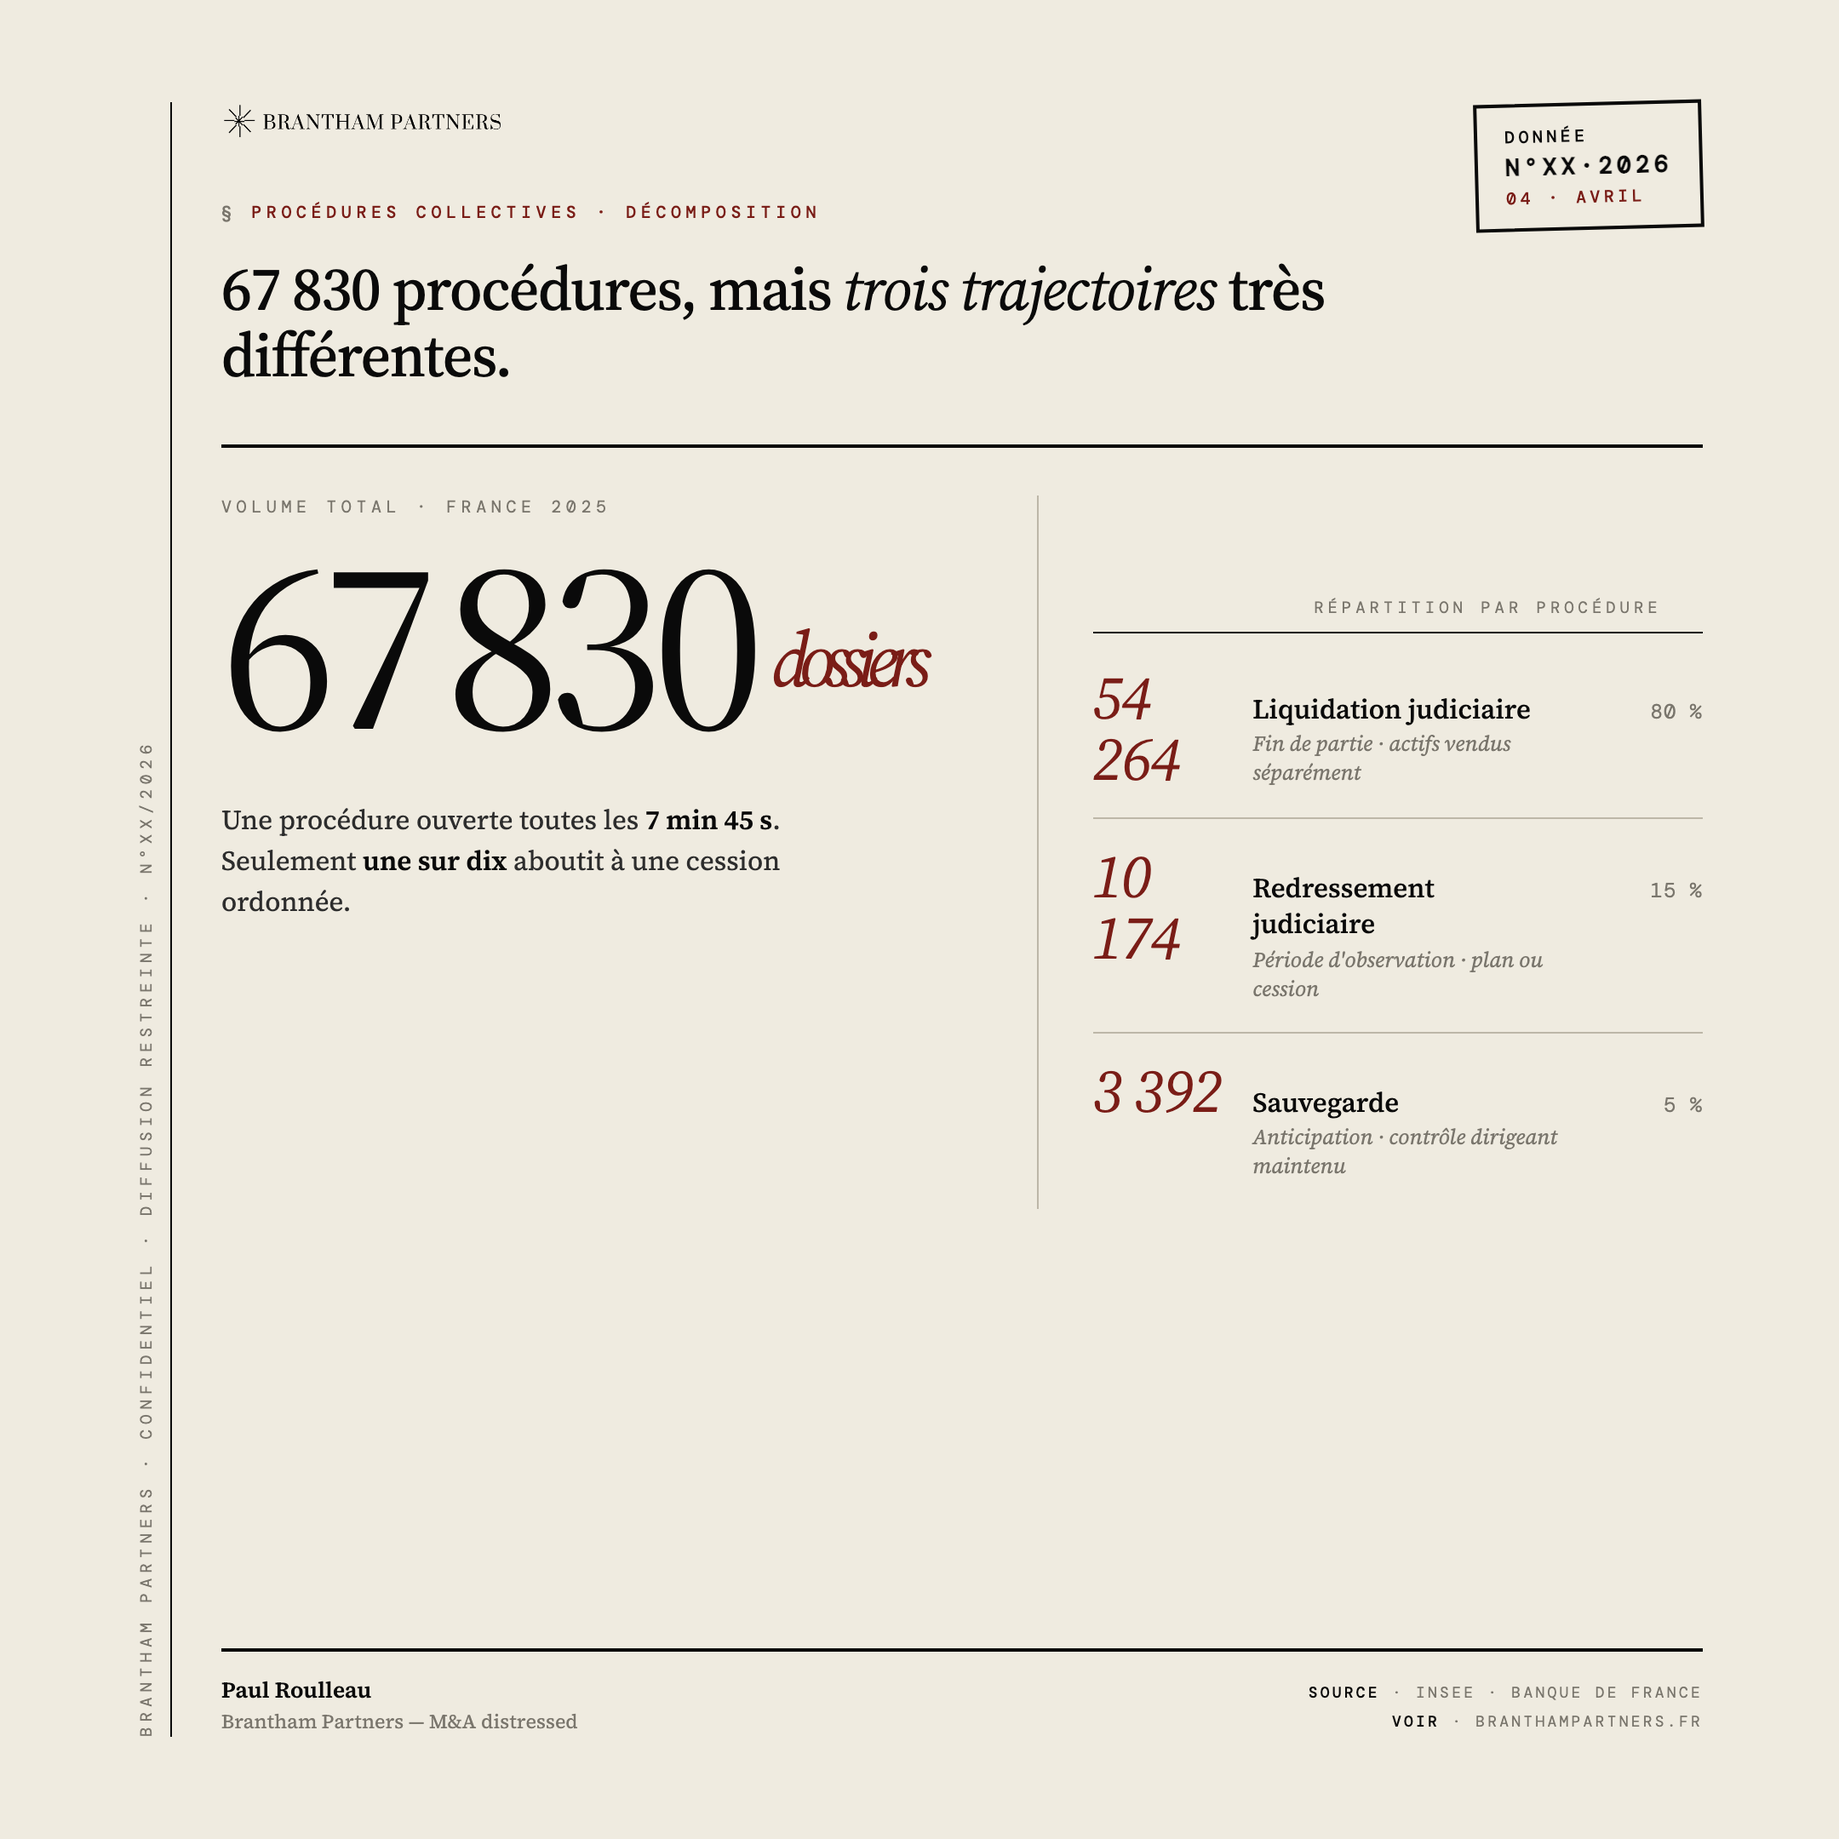
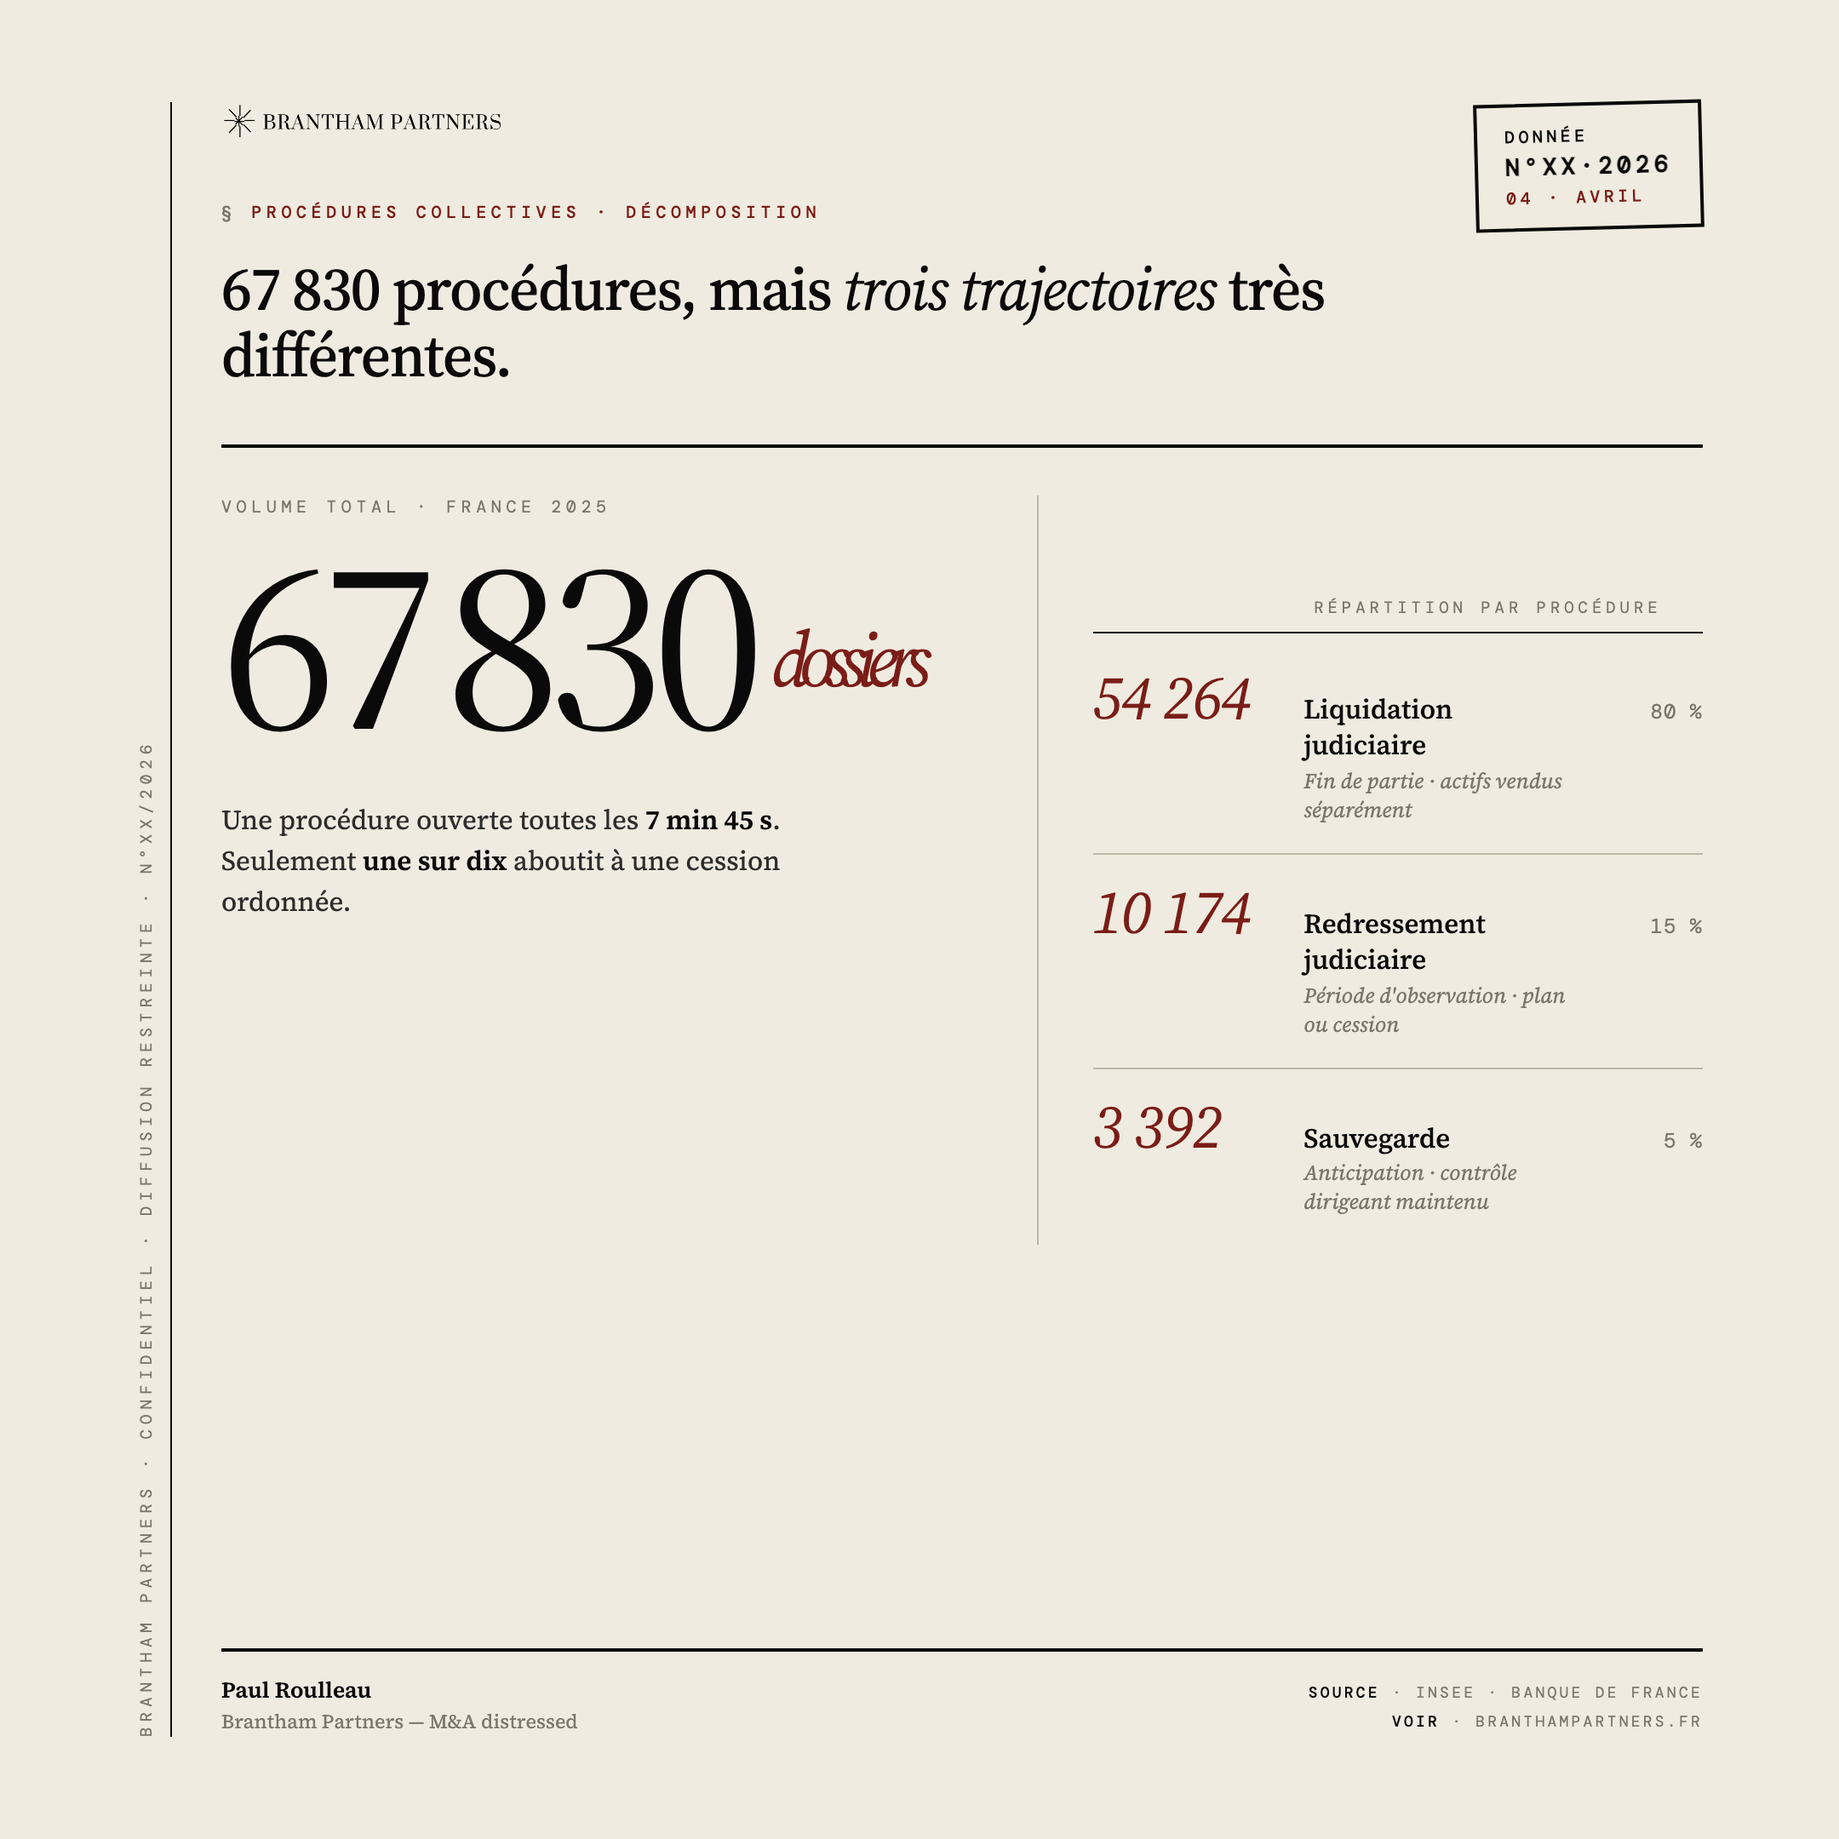
vault: sync 10 file(s) — 2026-04-28 20:01

Changed region(s): [[0.5894, 0.3722, 0.8375, 0.6824]]

diff --git a/brantham/linkedin/_design-system/templates-1080x1080/bar-chart.html b/brantham/linkedin/_design-system/templates-1080x1080/bar-chart.html
@@ -18,7 +18,7 @@
   }
   .chart-head {
     display: grid;
-    grid-template-columns: 60px 1fr 80px;
+    grid-template-columns: 60px 220px 1fr 100px;
     column-gap: 18px;
     padding: 6px 0;
     border-bottom: 1px solid var(--ink);
@@ -32,7 +32,7 @@
 
   .bar-row {
     display: grid;
-    grid-template-columns: 60px 1fr 80px;
+    grid-template-columns: 60px 220px 1fr 100px;
     column-gap: 18px;
     align-items: center;
     padding: 11px 0;
@@ -46,26 +46,23 @@
     color: var(--ink);
     font-weight: 500;
   }
-  .bar-row .bar-wrap {
-    position: relative;
-    display: flex;
-    align-items: center;
-    gap: 14px;
-    height: 24px;
-  }
-  .bar-row .bar {
-    height: 18px;
-    background: var(--accent);
-    flex: 0 0 auto;
-    position: relative;
-  }
   .bar-row .label {
     font-family: var(--serif);
-    font-size: 16px;
+    font-size: 15px;
     font-weight: 500;
     color: var(--ink);
     letter-spacing: -0.005em;
-    white-space: nowrap;
+    line-height: 1.2;
+  }
+  .bar-row .bar-wrap {
+    position: relative;
+    height: 16px;
+    display: flex;
+    align-items: center;
+  }
+  .bar-row .bar {
+    height: 14px;
+    background: var(--accent);
   }
   .bar-row .val {
     font-family: var(--mono);
@@ -78,7 +75,7 @@
 
   .scale {
     display: grid;
-    grid-template-columns: 60px 1fr 80px;
+    grid-template-columns: 60px 220px 1fr 100px;
     column-gap: 18px;
     margin-top: 6px;
     border-top: 1px solid var(--ink);
@@ -113,52 +110,62 @@
     <div class="chart">
       <div class="chart-head">
         <div>Réf.</div>
-        <div>Secteur · part du volume</div>
+        <div>Secteur</div>
+        <div>Volume · échelle proportionnelle</div>
         <div>Dossiers</div>
       </div>
 
       <div class="bar-row">
         <div class="num">FR-01</div>
-        <div class="bar-wrap"><div class="bar" style="width: 100%"></div><span class="label">Commerce de détail</span></div>
+        <div class="label">Commerce de détail</div>
+        <div class="bar-wrap"><div class="bar" style="width: 100%"></div></div>
         <div class="val">14&nbsp;264<span class="pct">21&nbsp;%</span></div>
       </div>
       <div class="bar-row">
         <div class="num">FR-02</div>
-        <div class="bar-wrap"><div class="bar" style="width: 86%"></div><span class="label">Construction · BTP</span></div>
+        <div class="label">Construction · BTP</div>
+        <div class="bar-wrap"><div class="bar" style="width: 86%"></div></div>
         <div class="val">12&nbsp;209<span class="pct">18&nbsp;%</span></div>
       </div>
       <div class="bar-row">
         <div class="num">FR-03</div>
-        <div class="bar-wrap"><div class="bar" style="width: 62%"></div><span class="label">Restauration · hôtellerie</span></div>
+        <div class="label">Restauration · hôtellerie</div>
+        <div class="bar-wrap"><div class="bar" style="width: 62%"></div></div>
         <div class="val">8&nbsp;814<span class="pct">13&nbsp;%</span></div>
       </div>
       <div class="bar-row">
         <div class="num">FR-04</div>
-        <div class="bar-wrap"><div class="bar" style="width: 52%"></div><span class="label">Services aux entreprises</span></div>
+        <div class="label">Services aux entreprises</div>
+        <div class="bar-wrap"><div class="bar" style="width: 52%"></div></div>
         <div class="val">7&nbsp;461<span class="pct">11&nbsp;%</span></div>
       </div>
       <div class="bar-row">
         <div class="num">FR-05</div>
-        <div class="bar-wrap"><div class="bar" style="width: 43%"></div><span class="label">Industrie manufacturière</span></div>
+        <div class="label">Industrie manufacturière</div>
+        <div class="bar-wrap"><div class="bar" style="width: 43%"></div></div>
         <div class="val">6&nbsp;105<span class="pct">9&nbsp;%</span></div>
       </div>
       <div class="bar-row">
         <div class="num">FR-06</div>
-        <div class="bar-wrap"><div class="bar" style="width: 33%"></div><span class="label">Transport · logistique</span></div>
+        <div class="label">Transport · logistique</div>
+        <div class="bar-wrap"><div class="bar" style="width: 33%"></div></div>
         <div class="val">4&nbsp;748<span class="pct">7&nbsp;%</span></div>
       </div>
       <div class="bar-row">
         <div class="num">FR-07</div>
-        <div class="bar-wrap"><div class="bar" style="width: 24%"></div><span class="label">Soins · santé</span></div>
+        <div class="label">Soins · santé</div>
+        <div class="bar-wrap"><div class="bar" style="width: 24%"></div></div>
         <div class="val">3&nbsp;391<span class="pct">5&nbsp;%</span></div>
       </div>
       <div class="bar-row">
         <div class="num">FR-08</div>
-        <div class="bar-wrap"><div class="bar" style="width: 14%"></div><span class="label">Immobilier · agences</span></div>
+        <div class="label">Immobilier · agences</div>
+        <div class="bar-wrap"><div class="bar" style="width: 14%"></div></div>
         <div class="val">2&nbsp;035<span class="pct">3&nbsp;%</span></div>
       </div>
 
       <div class="scale">
+        <div></div>
         <div></div>
         <div class="ticks"><span>0</span><span>3 500</span><span>7 000</span><span>10 500</span><span>14 000</span></div>
         <div></div>

diff --git a/brantham/deals/active/sas-fitness-levallois/pitch-deck/01-cover.html b/brantham/deals/active/sas-fitness-levallois/pitch-deck/01-cover.html
@@ -1,0 +1,61 @@
+<!DOCTYPE html>
+<html lang="fr">
+<head>
+<meta charset="UTF-8">
+<title>Pitch repreneur — Cover — Brantham</title>
+<link rel="stylesheet" href="../../../../linkedin/_design-system/base/tokens.css">
+<link rel="stylesheet" href="../../../../linkedin/_design-system/base/base.css">
+<link rel="stylesheet" href="../../../../linkedin/_design-system/templates-1920x1080/_format.css">
+<style>
+  .post .body { display: flex; flex-direction: column; justify-content: center; padding-top: 0; }
+  .cover-edition {
+    font-family: var(--mono); font-size: 12px; letter-spacing: 0.36em;
+    text-transform: uppercase; color: var(--accent); margin-bottom: 36px; font-weight: 500;
+  }
+  .cover-title {
+    font-family: var(--serif); font-weight: 500;
+    font-size: 132px; line-height: 0.96; letter-spacing: -0.035em;
+    color: var(--ink); max-width: 1320px;
+  }
+  .cover-title .it { font-style: italic; font-weight: 400; }
+  .cover-deck {
+    margin-top: 40px; font-family: var(--serif); font-size: 22px; line-height: 1.55;
+    color: var(--ink-soft); max-width: 980px; font-style: italic;
+  }
+  .cover-deck b { color: var(--ink); font-weight: 600; font-style: normal; }
+
+  .swipe {
+    position: absolute; bottom: 96px; right: 96px;
+    font-family: var(--mono); font-size: 11px; letter-spacing: 0.32em;
+    text-transform: uppercase; color: var(--accent);
+    border-top: 1px solid var(--accent); border-bottom: 1px solid var(--accent);
+    padding: 10px 18px; font-weight: 500;
+  }
+</style>
+</head>
+<body>
+
+<div class="post">
+  <div class="watermark">Brantham Partners · Confidentiel · Diffusion restreinte · Pitch repreneur</div>
+  <div class="stamp">Pitch repreneur<b>N°01·2026</b><span class="x">04 · Avril</span></div>
+
+  <header class="head">
+    <div class="brand"><img src="../../../../linkedin/_design-system/logo.png" alt="Brantham Partners"></div>
+  </header>
+
+  <div class="body">
+    <div class="cover-edition">Dossier repreneur — Avril 2026</div>
+    <h1 class="cover-title">Reprendre une <span class="it">salle de sport</span><br>en redressement.</h1>
+    <p class="cover-deck">Salle indépendante à Levallois · 900 m² · CA 350 K€. <b>Trois conditions</b> à valider avant dépôt — décision interne 14/05, dépôt greffe 21/05.</p>
+  </div>
+
+  <div class="swipe">→ Dossier complet</div>
+
+  <footer class="foot">
+    <div class="sig"><div class="n">Paul Roulleau</div><div class="f">Brantham Partners — M&amp;A distressed</div></div>
+    <div class="credit"><div><b>Préparé pour</b> · le repreneur</div><div><b>Voir</b> · branthampartners.fr</div></div>
+  </footer>
+</div>
+
+</body>
+</html>

diff --git a/brantham/linkedin/_design-system/templates-1080x1080/annotated-stat.html b/brantham/linkedin/_design-system/templates-1080x1080/annotated-stat.html
@@ -73,12 +73,13 @@
   }
   .annot-breakdown .sub {
     display: grid;
-    grid-template-columns: 80px 1fr 70px;
+    grid-template-columns: 110px 1fr 60px;
     column-gap: 14px;
     align-items: baseline;
     padding: 16px 0;
     border-bottom: 1px solid var(--rule);
   }
+  .annot-breakdown .sub .v { white-space: nowrap; }
   .annot-breakdown .sub:last-child { border-bottom: 0; }
   .annot-breakdown .sub .v {
     font-family: var(--serif);

diff --git a/brantham/deals/active/sas-fitness-levallois/pitch-deck/render.py b/brantham/deals/active/sas-fitness-levallois/pitch-deck/render.py
@@ -1,0 +1,42 @@
+"""Render pitch-deck HTML files to PNG (retina @2x).
+
+Usage:
+  python3 render.py            # tous les .html du dossier
+  python3 render.py 01-cover   # un seul fichier (par stem)
+"""
+import asyncio
+import sys
+from pathlib import Path
+from playwright.async_api import async_playwright
+
+ROOT = Path(__file__).parent
+W, H = 1920, 1080
+
+
+async def render_one(page, html_file):
+    await page.goto(f"file://{html_file}", wait_until="networkidle")
+    await page.wait_for_timeout(800)
+    out = html_file.with_suffix(".png")
+    await page.locator(".post").first.screenshot(path=str(out))
+    print(f"  rendered {out.name}")
+
+
+async def main():
+    target = sys.argv[1] if len(sys.argv) > 1 else None
+    files = sorted(ROOT.glob("*.html"))
+    if target:
+        files = [f for f in files if f.stem == target or f.name == target]
+
+    async with async_playwright() as p:
+        browser = await p.chromium.launch()
+        ctx = await browser.new_context(viewport={"width": W, "height": H},
+                                        device_scale_factor=2)
+        page = await ctx.new_page()
+        for f in files:
+            await render_one(page, f)
+        await ctx.close()
+        await browser.close()
+
+
+if __name__ == "__main__":
+    asyncio.run(main())

diff --git a/brantham/linkedin/_design-system/GALERIE.md b/brantham/linkedin/_design-system/GALERIE.md
@@ -12,17 +12,27 @@ Re-rendre tout : `cd _design-system && uv run render.py`
 
 ## Carré 1080×1080 — feed standard
 
+### Narratifs
 | Template | Archétype | Cream | Navy |
 |---|---|---|---|
-| Cover | Ouverture | ![[templates-1080x1080/cover-slide.png\|260]] | ![[templates-1080x1080/cover-slide-navy.png\|260]] |
-| Headline | Punch | ![[templates-1080x1080/headline-only.png\|260]] | ![[templates-1080x1080/headline-only-navy.png\|260]] |
-| Stat-hero | Stat-shock | ![[templates-1080x1080/stat-hero.png\|260]] | ![[templates-1080x1080/stat-hero-navy.png\|260]] |
-| Myth-reality | Mythe ↔ réalité | ![[templates-1080x1080/myth-reality.png\|260]] | ![[templates-1080x1080/myth-reality-navy.png\|260]] |
-| Timeline | Process décodé | ![[templates-1080x1080/timeline.png\|260]] | ![[templates-1080x1080/timeline-navy.png\|260]] |
-| Data table | Décryptage data | ![[templates-1080x1080/data-table.png\|260]] | ![[templates-1080x1080/data-table-navy.png\|260]] |
-| Data ledger | Coût caché | ![[templates-1080x1080/data-ledger.png\|260]] | ![[templates-1080x1080/data-ledger-navy.png\|260]] |
-| Data checklist | Process numéroté | ![[templates-1080x1080/data-checklist.png\|260]] | ![[templates-1080x1080/data-checklist-navy.png\|260]] |
-| Quote | Verbatim | ![[templates-1080x1080/quote-card.png\|260]] | ![[templates-1080x1080/quote-card-navy.png\|260]] |
+| Cover | Ouverture | ![[templates-1080x1080/cover-slide.png\|220]] | ![[templates-1080x1080/cover-slide-navy.png\|220]] |
+| Headline | Punch | ![[templates-1080x1080/headline-only.png\|220]] | ![[templates-1080x1080/headline-only-navy.png\|220]] |
+| Manifesto | Doctrine 8 principes | ![[templates-1080x1080/manifesto.png\|220]] | ![[templates-1080x1080/manifesto-navy.png\|220]] |
+| Quote | Verbatim | ![[templates-1080x1080/quote-card.png\|220]] | ![[templates-1080x1080/quote-card-navy.png\|220]] |
+| Myth-reality | Mythe ↔ réalité | ![[templates-1080x1080/myth-reality.png\|220]] | ![[templates-1080x1080/myth-reality-navy.png\|220]] |
+| Timeline | Process décodé | ![[templates-1080x1080/timeline.png\|220]] | ![[templates-1080x1080/timeline-navy.png\|220]] |
+| Case-study | Cas anonymisé | ![[templates-1080x1080/case-study.png\|220]] | ![[templates-1080x1080/case-study-navy.png\|220]] |
+
+### Data
+| Template | Archétype | Cream | Navy |
+|---|---|---|---|
+| Stat-hero | Stat-shock | ![[templates-1080x1080/stat-hero.png\|220]] | ![[templates-1080x1080/stat-hero-navy.png\|220]] |
+| Annotated-stat | Décomposition | ![[templates-1080x1080/annotated-stat.png\|220]] | ![[templates-1080x1080/annotated-stat-navy.png\|220]] |
+| Bar-chart | Classement visuel | ![[templates-1080x1080/bar-chart.png\|220]] | ![[templates-1080x1080/bar-chart-navy.png\|220]] |
+| Trend-line | Tendance temporelle | ![[templates-1080x1080/trend-line.png\|220]] | ![[templates-1080x1080/trend-line-navy.png\|220]] |
+| Data table | Top secteurs | ![[templates-1080x1080/data-table.png\|220]] | ![[templates-1080x1080/data-table-navy.png\|220]] |
+| Data ledger | Coût caché | ![[templates-1080x1080/data-ledger.png\|220]] | ![[templates-1080x1080/data-ledger-navy.png\|220]] |
+| Data checklist | Process numéroté | ![[templates-1080x1080/data-checklist.png\|220]] | ![[templates-1080x1080/data-checklist-navy.png\|220]] |
 
 ## Vertical 1080×1350 — engagement maximal
 
